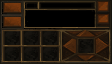
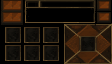
refactoring UI, inventory

diff --git a/src/components/UI/Inventory.vue b/src/components/UI/Inventory.vue
@@ -1,10 +1,22 @@
 <template>
   <div v-if="getInventory.show" class="inventory">
-    <div  class="item-preview"
+    <div class="inventory__slot --selected"></div> 
+    <div class="inventory__slot"></div> 
+    <div class="inventory__slot"></div> 
+    <div class="inventory__slot"></div> 
+    <div class="inventory__slot"></div> 
+    <div class="inventory__slot"></div>
+    <div class="inventory__slot"></div> 
+    <div class="inventory__slot"></div> 
+    <div class="inventory__slot"></div> 
+    <div class="inventory__slot"></div> 
+    <div class="inventory__slot"></div> 
+    <div class="inventory__slot"></div> 
+<!--     <div  class="item-preview"
           v-for="(item, index) in getInventory.items"
          :key="'item' + index">
       <img :src="image(item)">
-    </div>
+    </div> -->
   </div>
 </template>
 
@@ -23,29 +35,40 @@ export default {
       return require('@/assets/items/' + item.image)
     }
   }
-}
+};
 </script>
 
 <style scoped lang="sass">
 .inventory
+  display: flex
+  flex-wrap: wrap
+  align-items: flex-start
+  justify-content: flex-start
   z-index: 1
   position: fixed
-  height: 100vh
-  width: 100vh
-  color: white
+  height: calc(4px * var(--tile-cell))
+  width: 100%
   background-color: black
-  display: flex
   top: 0
-  padding-top: calc(2 * var(--tile-cell))
-  .item-preview
-    width: calc(1.5 * var(--tile-cell))
-    height: calc(1.5 * var(--tile-cell))
-    background: url("../../assets/ui/portraitFrame.png")
-    padding: calc(2.5 * var(--pixel-unit))
-    image-rendering: pixelated
-    background-size: contain
-    box-sizing: border-box
-    img
-      width: 100%
-      height: 100%
+  padding: calc(2 * var(--tile-cell)) calc(.5 * var(--tile-cell)) calc(.5 * var(--tile-cell))
+  box-sizing: border-box
+.inventory__slot
+  height: var(--tile-cell)
+  width: var(--tile-cell)
+  background-size: cover
+  image-rendering: pixelated
+  background-image: url("../../assets/ui/slot.jpg")
+  &.--selected
+    box-shadow: inset 0 0 0 var(--pixel-unit) yellow
+  // .item-preview
+  //   width: calc(1.5 * var(--tile-cell))
+  //   height: calc(1.5 * var(--tile-cell))
+  //   background: url("../../assets/ui/portraitFrame.png")
+  //   padding: calc(2.5 * var(--pixel-unit))
+  //   image-rendering: pixelated
+  //   background-size: contain
+  //   box-sizing: border-box
+  //   img
+  //     width: 100%
+  //     height: 100%
 </style>

diff --git a/src/components/UI/DungeonUI.vue b/src/components/UI/DungeonUI.vue
@@ -9,12 +9,12 @@
       </div>
       <log-quest></log-quest>
       <div class="skills">
-        <div class="skill__slot --slot1"></div>
-        <div class="skill__slot --slot2"></div>
-        <div class="skill__slot --slot3"></div>
-        <div class="skill__slot --slot4"></div>
-        <div class="skill__slot --slot5"></div>
-        <div class="skill__slot --slot6"></div>
+        <div class="skill__slot"></div>
+        <div class="skill__slot"></div>
+        <div class="skill__slot"></div>
+        <div class="skill__slot"></div>
+        <div class="skill__slot"></div>
+        <div class="skill__slot"></div>
       </div>
       <div class="control">
         <div class="top" @click="move('top')"></div>
@@ -79,27 +79,24 @@ export default {
 .dungeonUIContent
   position: relative
 .skills
-  position: fixed
+  position: absolute
   opacity: 0.4
-  // background-color: red
-  height: calc(2 * var(--tile-cell))
-  width: calc(3.5 * var(--tile-cell))
-  bottom: calc(1 * var(--pixel-unit))
-  left: calc(3 * var(--pixel-unit))
+  background-color: green
+  height: calc(2.5 * var(--tile-cell))
+  width: calc(4 * var(--tile-cell))
+  bottom: 0
+  left: 0
+  display: flex
+  flex-wrap: wrap
+  padding: calc(3 * var(--pixel-unit)) calc(5 * var(--pixel-unit))
+  box-sizing: border-box
+  align-items: space-between
+  justify-content: space-between
   .skill__slot
-    position: fixed
-    opacity: 0.4
+    height: var(--tile-cell)
+    width: var(--tile-cell)
+    opacity: 1
     background-color: blue
-    height: calc(0.875 * var(--tile-cell))
-    width: calc(0.875 * var(--tile-cell))
-    bottom: calc(3 * var(--pixel-unit))
-    left: calc(5 * var(--pixel-unit))
-    &.--slot2, &.--slot5
-      left: calc(24 * var(--pixel-unit))
-    &.--slot3, &.--slot6
-      left: calc(43 * var(--pixel-unit))
-    &.--slot4, &.--slot5, &.--slot6
-      bottom: calc(19 * var(--pixel-unit))
 .player__gold
   position: absolute
   bottom: calc(3.48 * var(--tile-cell))
@@ -114,6 +111,13 @@ export default {
     font-size: 1.25rem
     line-height: 1rem
 .control
+  background-color: red
+  opacity: 0.5
+  position: absolute
+  bottom: 0
+  right: 0
+  height: calc(var(--tile-cell) * 2.5)
+  width: calc(var(--tile-cell) * 3)
   .bottom
     position: fixed
     height: 28px

diff --git a/src/components/UI/LogQuest.vue b/src/components/UI/LogQuest.vue
@@ -1,5 +1,5 @@
 <template>
-  <div id="quest-log">
+  <div id="quest-log" class="questLog">
     <div class="feed">
       <span v-for="(log, index) in messages"
             :key="'log' + index"
@@ -52,22 +52,23 @@ export default {
       }
     }
   }
-}
+};
 </script>
 
 <style scoped lang="sass">
 .feed
   color: white
   opacity: 0.5
-  font-size: 14px
-  width: calc(65 * var(--pixel-unit))
-  height: calc(19 * var(--pixel-unit))
-  position: absolute
-  line-height: 11.5px
-  padding-left: 15px
+  font-size: calc(4 * var(--pixel-unit))
+  background-color: rgba(255, 0, 255, 0.3)
+  line-height: calc(3.2 * var(--pixel-unit))
+  padding: var(--pixel-unit) calc(4 * var(--pixel-unit))
   box-sizing: border-box
-  left: calc(24 * var(--pixel-unit))
-  top: calc(12 * var(--pixel-unit))
+  position: fixed
+  width: calc(4.5 * var(--tile-cell))
+  height: var(--tile-cell)
+  left: calc(1.5 * var(--tile-cell))
+  bottom: calc(2.5 * var(--tile-cell))
 .message
   display: flex
 .scroll-up

diff --git a/src/App.vue b/src/App.vue
@@ -7,13 +7,16 @@
 <script>
 export default {
   name: "App"
-}
+};
 </script>
 
 <style lang="sass">
 \:root
   --tile-cell: 14.2857vw // based on 7 tiles in viewport width
   --pixel-unit: 0.8928vw // based on 16 pixels inside 1 tile-cell
+
+$tile: 14.2857vw // based on 7 tiles in viewport width
+$pixel: 0.8928vw // based on 16 pixels inside 1 tile-cell
 
 @font-face
   font-family: 'OpenSansPXBold'

diff --git a/public/index.html b/public/index.html
@@ -1,6 +1,7 @@
 <!DOCTYPE html>
 <html lang="en">
   <head>
+    <meta name="theme-color" content="#181008" />
     <meta charset="utf-8">
     <meta http-equiv="X-UA-Compatible" content="IE=edge">
     <meta name="viewport" content="width=device-width, initial-scale=1.0, maximum-scale=1.0, user-scalable=no" />
